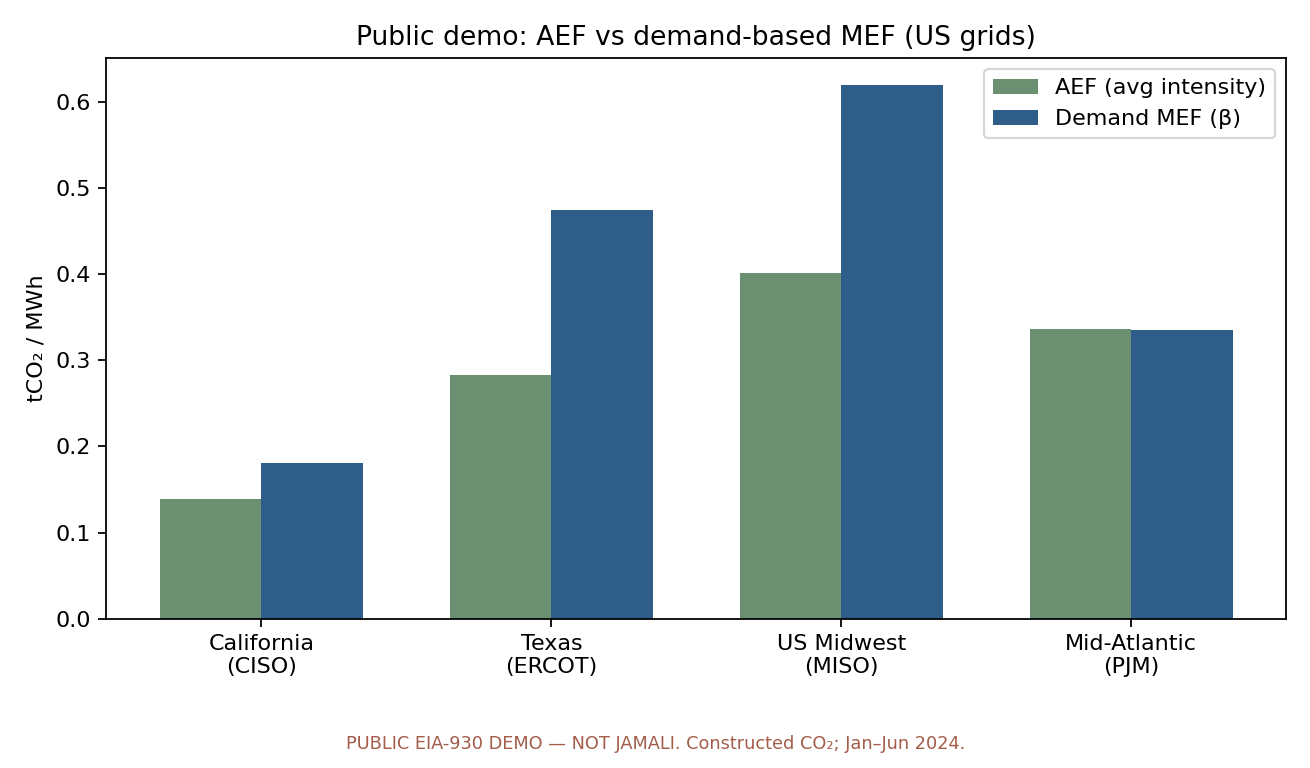
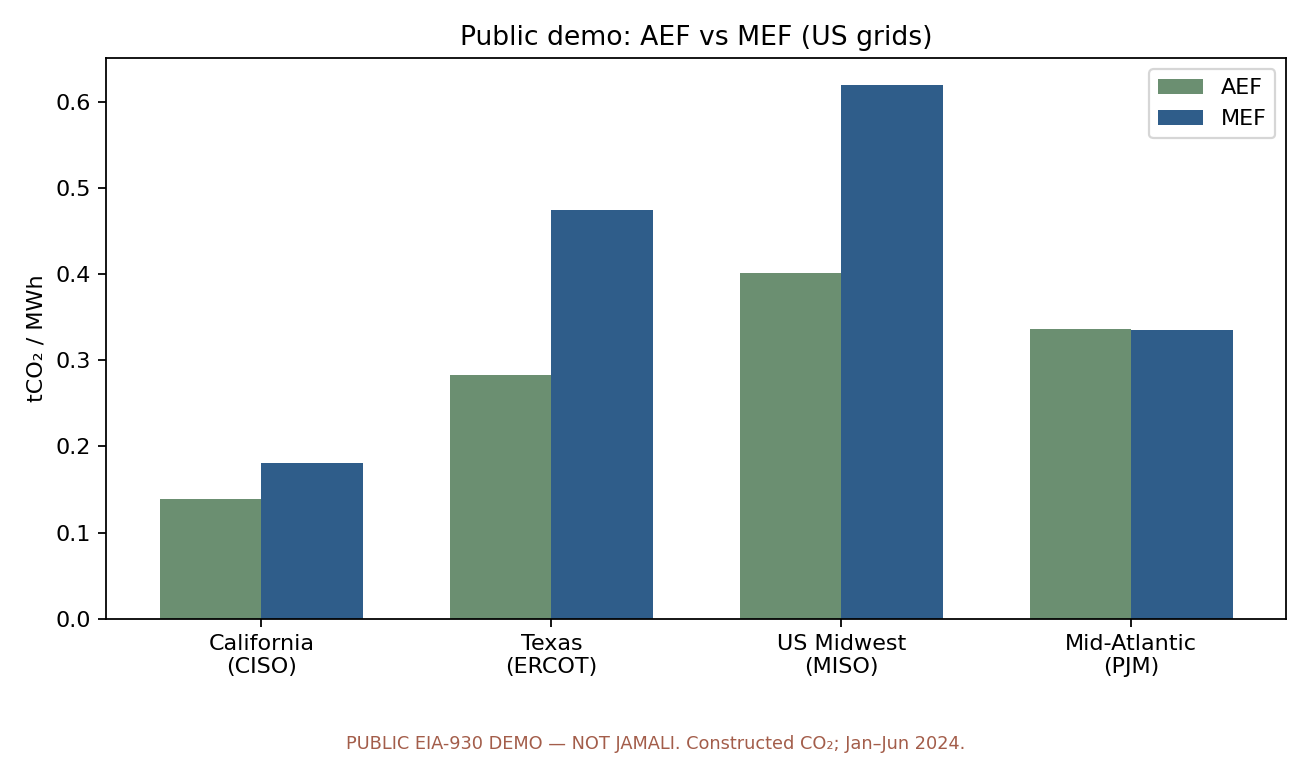
Simplify AEF vs MEF demo labels for the midterm presentation.

Changed region(s): [[0.7328, 0.0938, 0.9771, 0.1875], [0.2748, 0.0312, 0.7939, 0.0625]]

diff --git a/mef_research/pilot_m1/run_public_comparisons.py b/mef_research/pilot_m1/run_public_comparisons.py
@@ -129,12 +129,12 @@ def plot_aef_vs_mef(summary: pd.DataFrame, path: Path) -> None:
     fig, ax = plt.subplots(figsize=(8.2, 4.8))
     x = np.arange(len(summary))
     width = 0.35
-    ax.bar(x - width / 2, summary["aef_tco2_per_mwh"], width, label="AEF (avg intensity)", color="#6b8f71")
-    ax.bar(x + width / 2, summary["demand_mef_tco2_per_mwh"], width, label="Demand MEF (β)", color="#2f5d8a")
+    ax.bar(x - width / 2, summary["aef_tco2_per_mwh"], width, label="AEF", color="#6b8f71")
+    ax.bar(x + width / 2, summary["demand_mef_tco2_per_mwh"], width, label="MEF", color="#2f5d8a")
     ax.set_xticks(x)
     ax.set_xticklabels([BA_LABELS.get(ba, ba) for ba in summary["ba"]])
     ax.set_ylabel("tCO₂ / MWh")
-    ax.set_title("Public demo: AEF vs demand-based MEF (US grids)")
+    ax.set_title("Public demo: AEF vs MEF (US grids)")
     ax.legend()
     fig.text(
         0.5,

diff --git a/mef_research/PRESENTATION_OUTLINE.md b/mef_research/PRESENTATION_OUTLINE.md
@@ -19,11 +19,12 @@
 ---
 
 ## Slide 2 — Research question
-**What data and modelling approaches would be needed to estimate the short- and long-run marginal emissions effects of geothermal in Jamali, and how could that inform assessment of the combined-margin (CM) approach?**
+**What data and methods would we need to estimate geothermal’s short- and long-run marginal emissions effects on Jamali — and how could that inform assessing the combined-margin (CM) approach?**
 
 - Short-run: which existing plants respond today  
 - Long-run: what gets built/retired later (separate, larger programme)  
-- Aim: credible pathway — not “MEF must replace CM”
+- Aim: credible pathway — not “MEF must replace CM”  
+- Full/report wording stays in MISSION.md; this is the slide-readable form only
 
 ---
 
